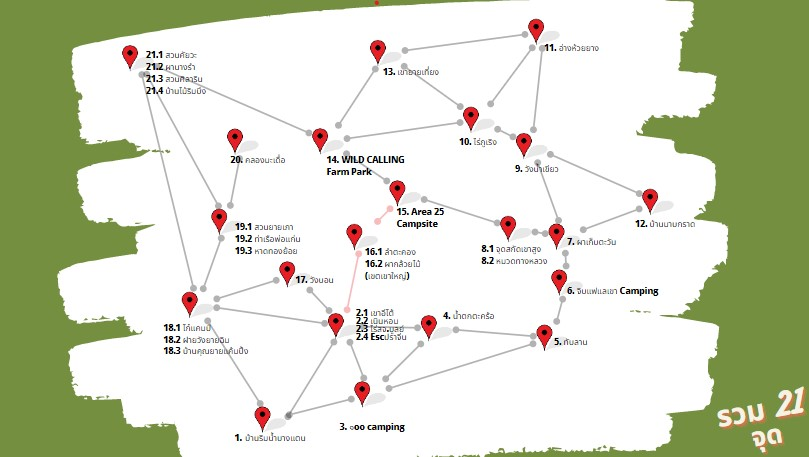
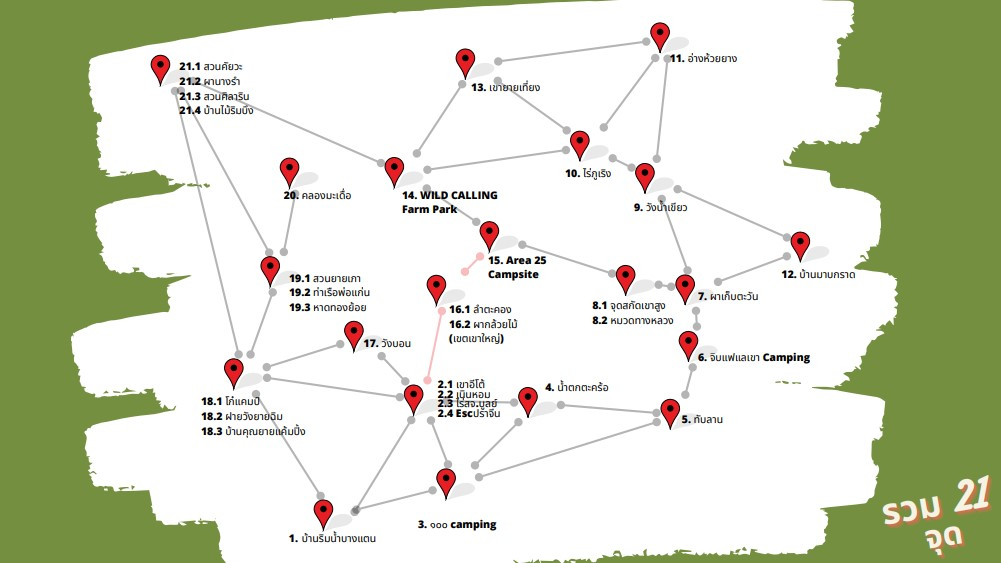
update

diff --git a/1index.html b/1index.html
@@ -21,8 +21,8 @@
 					<div id="intro">
 						<h1>การนำGraph<br />
 							มาประยุกต์ใช้</h1>
-						<p>ในการท่องเที่ยวจุดตั้งแคมป์ในระแวกปราจีนบุรี,นครราชสีมา,นครนายก  <a href="https://twitter.com/ajlkn">@ajlkn</a> for <a href="https://html5up.net">HTML5 UP</a><br />
-						and released for free under the <a href="https://html5up.net/license">Creative Commons license</a>.</p>
+						<p>ในการท่องเที่ยวจุดตั้งแคมป์ในระแวกปราจีนบุรี,นครราชสีมา,นครนายก โดยใช้เทมเพจจาก<a href="https://twitter.com/ajlkn">@ajlkn</a> for <a href="https://html5up.net">HTML5 UP</a><br />
+							และปล่อยให้โหลดฟรีภายใต้<a href="https://html5up.net/license">สัญญาอนุญาตครีเอทีฟคอมมอนส์</a>.</p>
 						<ul class="actions">
 							<li><a href="#header" class="button icon solid solo fa-arrow-down scrolly">Continue</a></li>
 						</ul>
@@ -30,21 +30,21 @@
 
 				<!-- Header -->
 					<header id="header">
-						<a href="index.html" class="logo">Massively</a>
+						<a href="1navigate.html" class="logo">navigate</a>
 					</header>
 
 				<!-- Nav -->
 					<nav id="nav">
 						<ul class="links">
-							<li class="active"><a href="index.html">This is Massively</a></li>
-							<li><a href="generic.html">Generic Page</a></li>
-							<li><a href="elements.html">Elements Reference</a></li>
+							<li class="active"><a href="1index.html">home</a></li>
+							<li><a href="1navigate.html">navigate</a></li>
+							<!--li><a href="#">Elements Reference</a></li-->
 						</ul>
 						<ul class="icons">
 							<li><a href="#" class="icon brands fa-twitter"><span class="label">Twitter</span></a></li>
-							<li><a href="#" class="icon brands fa-facebook-f"><span class="label">Facebook</span></a></li>
-							<li><a href="#" class="icon brands fa-instagram"><span class="label">Instagram</span></a></li>
-							<li><a href="#" class="icon brands fa-github"><span class="label">GitHub</span></a></li>
+							<li><a href="https://web.facebook.com/Thengtham" class="icon brands fa-facebook-f"><span class="label">Facebook</span></a></li>
+							<li><a href="https://www.instagram.com/zo_naphat/" class="icon brands fa-instagram"><span class="label">Instagram</span></a></li>
+							<li><a href="https://github.com/ZonaphatINET" class="icon brands fa-github"><span class="label">GitHub</span></a></li>
 						</ul>
 					</nav>
 
@@ -54,16 +54,17 @@
 						<!-- Featured Post -->
 							<article class="post featured">
 								<header class="major">
-									<span class="date">April 25, 2017</span>
-									<h2><a href="#">And this is a<br />
-									massive headline</a></h2>
-									<p>Aenean ornare velit lacus varius enim ullamcorper proin aliquam<br />
-									facilisis ante sed etiam magna interdum congue. Lorem ipsum dolor<br />
-									amet nullam sed etiam veroeros.</p>
+									<span class="date">15/04/2023</span>
+									<h2><a href="#">การใช้กราฟ<br />
+									ระบุเส้นทางจุดกาเต็นท์</a></h2>
+									<p>ข้อมูลจาก ปราจีนบุรี นครราชสีมา และ นครนายก เราจะใช้กราฟในการอ้างอิงเส้นทางและตำแหน่งของจุดกางเต็นท์ ซึ่งเราได้ระบุจุดกางเต็นท์ใหญ่ๆออกมาทั้งหมด 21 จุดตามรูปภาพ
+										ซึ่งคุณสามารถใช้มันในการวางแผนการเดินทางท่องเที่ยวเบื่องต้นได้ โดยเราจะใช้ตัวเลขในการระบุจุดและใส่ข้อมูลแนะนำให้ 
+										ปล.ข้อมูลไม่ได้แม่นยำ100%
+									</p>
 								</header>
-								<a href="#" class="image main"><img src="images/pic01.jpg" alt="" /></a>
+								<a href="1navigate.html" class="image main"><img src="img/map_All_Point.JPG" alt="" /></a>
 								<ul class="actions special">
-									<li><a href="#" class="button large">Full Story</a></li>
+									<li><a href="1navigate.html" class="button large">navigate</a></li>
 								</ul>
 							</article>
 
@@ -79,7 +80,7 @@
 									<a href="#" class="image fit"><img src="images/pic02.jpg" alt="" /></a>
 									<p>Donec eget ex magna. Interdum et malesuada fames ac ante ipsum primis in faucibus. Pellentesque venenatis dolor imperdiet dolor mattis sagittis magna etiam.</p>
 									<ul class="actions special">
-										<li><a href="#" class="button">Full Story</a></li>
+										<li><a href="#" class="button">read more</a></li>
 									</ul>
 								</article>
 							    <!-- Post2 -->
@@ -154,14 +155,13 @@
 							<footer>
 								<div class="pagination">
 									<!--<a href="#" class="previous">Prev</a>-->
-									<a href="#" class="page active">1</a>
+									<a href="#" class="page active">1</a><!--ระบุหน้าที่อยู่นะตอนนี้ page active-->
 									<a href="#" class="page">2</a>
 									<a href="#" class="page">3</a>
-									<span class="extra">&hellip;</span>
-									<a href="#" class="page">8</a>
-									<a href="#" class="page">9</a>
-									<a href="#" class="page">10</a>
-									<a href="#" class="next">Next</a>
+									<!--span class="extra">&hellip;</span-->
+									<a href="#" class="page">3</a>
+									<a href="#" class="page">4</a>
+									<!--a href="#" class="next">Next</a-->
 								</div>
 							</footer>
 
@@ -208,9 +208,9 @@
 								<h3>Social</h3>
 								<ul class="icons alt">
 									<li><a href="#" class="icon brands alt fa-twitter"><span class="label">Twitter</span></a></li>
-									<li><a href="#" class="icon brands alt fa-facebook-f"><span class="label">Facebook</span></a></li>
-									<li><a href="#" class="icon brands alt fa-instagram"><span class="label">Instagram</span></a></li>
-									<li><a href="#" class="icon brands alt fa-github"><span class="label">GitHub</span></a></li>
+									<li><a href="https://web.facebook.com/Thengtham" class="icon brands alt fa-facebook-f"><span class="label">Facebook</span></a></li>
+									<li><a href="https://www.instagram.com/zo_naphat/" class="icon brands alt fa-instagram"><span class="label">Instagram</span></a></li>
+									<li><a href="https://github.com/ZonaphatINET" class="icon brands alt fa-github"><span class="label">GitHub</span></a></li>
 								</ul>
 							</section>
 						</section>

diff --git a/1navigate.html b/1navigate.html
@@ -1,0 +1,133 @@
+<!DOCTYPE HTML>
+<!--
+	Massively by HTML5 UP
+	html5up.net | @ajlkn
+	Free for personal and commercial use under the CCA 3.0 license (html5up.net/license)
+-->
+<html>
+	<head>
+		<title>นำทาง</title>
+		<meta charset="utf-8" />
+		<meta name="viewport" content="width=device-width, initial-scale=1, user-scalable=no" />
+		<link rel="stylesheet" href="assets/css/main.css" />
+		<noscript><link rel="stylesheet" href="assets/css/noscript.css" /></noscript>
+	</head>
+	<body class="is-preload">
+
+		<!-- Wrapper -->
+			<div id="wrapper">
+
+				<!-- Header -->
+					<header id="header">
+						<a href="1index.html" class="logo">home</a>
+					</header>
+
+				<!-- Nav -->
+					<nav id="nav">
+						<ul class="links">
+							<li ><a href="1index.html">home</a></li>
+							<li class="active"><a href="1navigate.html">navigate</a></li>
+							<!--li><a href="#">Elements Reference</a></li-->
+						</ul>
+						<ul class="icons">
+							<li><a href="#" class="icon brands fa-twitter"><span class="label">Twitter</span></a></li>
+							<li><a href="https://web.facebook.com/Thengtham" class="icon brands fa-facebook-f"><span class="label">Facebook</span></a></li>
+							<li><a href="https://www.instagram.com/zo_naphat/" class="icon brands fa-instagram"><span class="label">Instagram</span></a></li>
+							<li><a href="https://github.com/ZonaphatINET" class="icon brands fa-github"><span class="label">GitHub</span></a></li>
+						</ul>
+					</nav>
+
+				<!-- Main -->
+					<div id="main">
+
+						<!-- Post -->
+							<section class="post">
+								<header class="major">
+									<span class="date">15/04/2023</span>
+									<h1>การใช้กราฟ<br />
+									ทำได้ง่ายๆ</h1>
+									<p>ระบุจุดที่คุณจะเริ่มต้นและจุดสุดท้ายที่คุณต้องการ จากนั้นระบบจะแสดงให้เห็นถึงเส้นทางที่สั้นที่สุดที่คุณสามารถไปได้</p>
+								</header>
+								<div class="image main"><img src="img/map_All_Point.JPG" alt="" /></div>
+								<form action="/" method="POST">
+									<label for="num1">เลือกจุดเริ่มต้น 1-21:</label>
+									<input type="number" id="startPoint" name="startPoint">
+									<br>
+									<label for="num2">เลือกจุดสิ้นสุด 1-21:</label>
+									<input type="number" id="endPoint" name="endPoint">
+									<br><br>
+									<input type="submit" value="navigate">
+									
+								<p>Donec eget ex magna. Interdum et malesuada fames ac ante ipsum primis in faucibus. Pellentesque venenatis dolor imperdiet dolor mattis sagittis. Praesent rutrum sem diam, vitae egestas enim auctor sit amet. Pellentesque leo mauris, consectetur id ipsum sit amet, fergiat. Pellentesque in mi eu massa lacinia malesuada et a elit. Donec urna ex, lacinia in purus ac, pretium pulvinar mauris. Nunc lorem mauris, fringilla in aliquam at, euismod in lectus. Pellentesque habitant morbi tristique senectus et netus et malesuada fames ac turpis egestas. Curabitur sapien risus, commodo eget turpis at, elementum convallis enim turpis, lorem ipsum dolor sit amet nullam.</p>
+								<p>Lorem ipsum dolor sit amet, consectetur adipiscing elit. Duis dapibus rutrum facilisis. Class aptent taciti sociosqu ad litora torquent per conubia nostra, per inceptos himenaeos. Etiam tristique libero eu nibh porttitor fermentum. Nullam venenatis erat id vehicula viverra. Nunc ultrices eros ut ultricies condimentum. Mauris risus lacus, blandit sit amet venenatis non, bibendum vitae dolor. Nunc lorem mauris, fringilla in aliquam at, euismod in lectus. Pellentesque habitant morbi tristique senectus et netus et malesuada fames ac turpis egestas. In non lorem sit amet elit placerat maximus. Pellentesque aliquam maximus risus. Donec eget ex magna. Interdum et malesuada fames ac ante ipsum primis in faucibus. Pellentesque venenatis dolor imperdiet dolor mattis sagittis. Praesent rutrum sem diam, vitae egestas enim auctor sit amet. Pellentesque leo mauris, consectetur id ipsum.</p>
+							</section>
+
+					</div>
+
+				<!-- Footer -->
+					<footer id="footer">
+						<section>
+							<form method="post" action="#">
+								<div class="fields">
+									<div class="field">
+										<label for="name">Name</label>
+										<input type="text" name="name" id="name" />
+									</div>
+									<div class="field">
+										<label for="email">Email</label>
+										<input type="text" name="email" id="email" />
+									</div>
+									<div class="field">
+										<label for="message">Message</label>
+										<textarea name="message" id="message" rows="3"></textarea>
+									</div>
+								</div>
+								<ul class="actions">
+									<li><input type="submit" value="Send Message" /></li>
+								</ul>
+							</form>
+						</section>
+						<section class="split contact">
+							<section class="alt">
+								<h3>Address</h3>
+								<p>1234 Somewhere Road #87257<br />
+								Nashville, TN 00000-0000</p>
+							</section>
+							<section>
+								<h3>Phone</h3>
+								<p><a href="#">(000) 000-0000</a></p>
+							</section>
+							<section>
+								<h3>Email</h3>
+								<p><a href="#">info@untitled.tld</a></p>
+							</section>
+							<section>
+								<h3>Social</h3>
+								<ul class="icons">
+									<li><a href="#" class="icon brands fa-twitter"><span class="label">Twitter</span></a></li>
+									<li><a href="https://web.facebook.com/Thengtham" class="icon brands fa-facebook-f"><span class="label">Facebook</span></a></li>
+									<li><a href="https://www.instagram.com/zo_naphat/" class="icon brands fa-instagram"><span class="label">Instagram</span></a></li>
+									<li><a href="https://github.com/ZonaphatINET" class="icon brands fa-github"><span class="label">GitHub</span></a></li>
+								</ul>
+							</section>
+						</section>
+					</footer>
+
+				<!-- Copyright -->
+					<div id="copyright">
+						<ul><li>&copy; Untitled</li><li>Design: <a href="https://html5up.net">HTML5 UP</a></li></ul>
+					</div>
+
+			</div>
+
+		<!-- Scripts -->
+			<script src="assets/js/jquery.min.js"></script>
+			<script src="assets/js/jquery.scrollex.min.js"></script>
+			<script src="assets/js/jquery.scrolly.min.js"></script>
+			<script src="assets/js/browser.min.js"></script>
+			<script src="assets/js/breakpoints.min.js"></script>
+			<script src="assets/js/util.js"></script>
+			<script src="assets/js/main.js"></script>
+
+	</body>
+</html>

diff --git a/testpy.html b/testpy.html
@@ -1,0 +1,12 @@
+<head>
+    <title>
+    <link rel="stylesheet" href="https://pyscript.net/latest/pyscript.css" />
+    <script defer src="https://pyscript.net/latest/pyscript.js"></script>
+    </title>
+</head>
+
+<body>
+    <py-script>
+print(wow)
+    </py-script>
+</body>

diff --git a/map.py b/map.py
@@ -41,7 +41,7 @@ G.add_edge(1, 18, weight = 54)
 G.add_edge(2, 1)
 G.add_edge(2, 3, weight = 10)
 G.add_edge(2, 4)
-G.add_edge(2, 16, weight = 54)#เนื่องจากเป็นเส้นทางขึ้นเขาใช้ความเร็วได้ไม่เต็มที่จึงบวกเพิ่ม 5 กม. 
+G.add_edge(2, 16, weight = 54)# เนื่องจากเป็นเส้นทางขึ้นเขาใช้ความเร็วได้ไม่เต็มที่จึงบวกเพิ่ม 5 กม. 
 G.add_edge(2, 17)
 G.add_edge(2, 18)
 
@@ -98,7 +98,7 @@ G.add_edge(15, 14, weight = 23)
 G.add_edge(15, 16)
 
 G.add_edge(16, 2)
-G.add_edge(16, 15, weight = 37)#เนื่องจากเป็นเส้นทางขึ้นเขาใช้ความเร็วได้ไม่เต็มที่จึงบวกเพิ่ม 5 กม. 
+G.add_edge(16, 15, weight = 37)# เนื่องจากเป็นเส้นทางขึ้นเขาใช้ความเร็วได้ไม่เต็มที่จึงบวกเพิ่ม 5 กม. 
 
 G.add_edge(17, 2, weight = 20)
 G.add_edge(17, 18)
@@ -184,7 +184,9 @@ pos = {1: (-3.18, -3.74),
 nx.draw(G, pos, with_labels=True, node_color=[color_map[node] for node in G.nodes()])
 labels = nx.get_edge_attributes(G,'weight')
 nx.draw_networkx_edge_labels(G,pos,edge_labels=labels)
-plt.show()
+#plt.show()
+
+
 
 # ระบุจุดเริ่มและสิ้นสุด
 startPoint = int(input("Enter start point:"))
@@ -242,5 +244,5 @@ filepath = 'img/outputMap/graph.png'
 # บันทึกภาพกราฟลงไปยังโฟลเดอร์ที่กำหนด
 plt.savefig(filepath, format='jpeg', dpi=1000)
 
-#plt.savefig("graph.jpg", format='jpeg', dpi=600)
-plt.show()
+#plt.savefig("graph.jpg", format='jpeg', dpi=600)#######ไม่ได้ใช้
+#plt.show()
